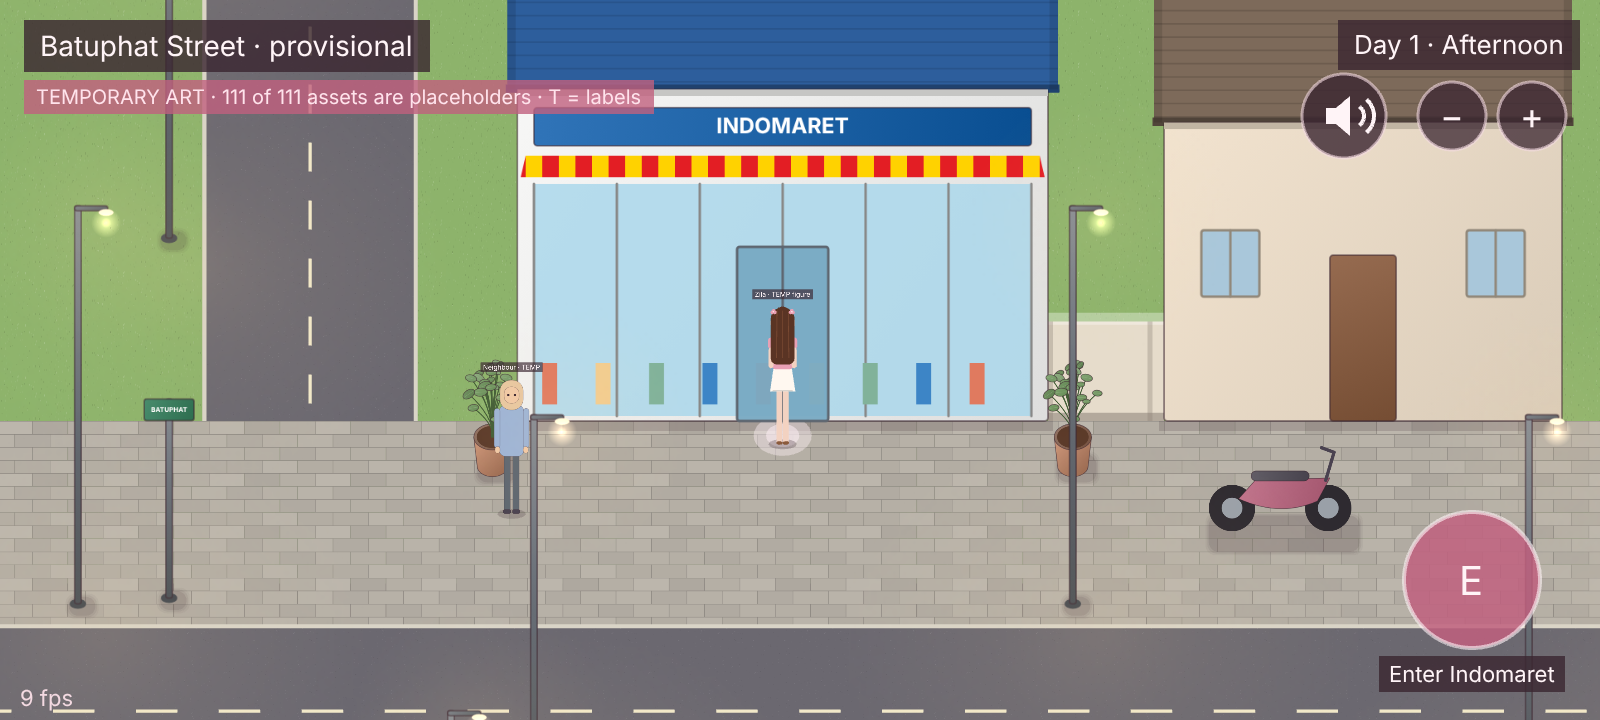
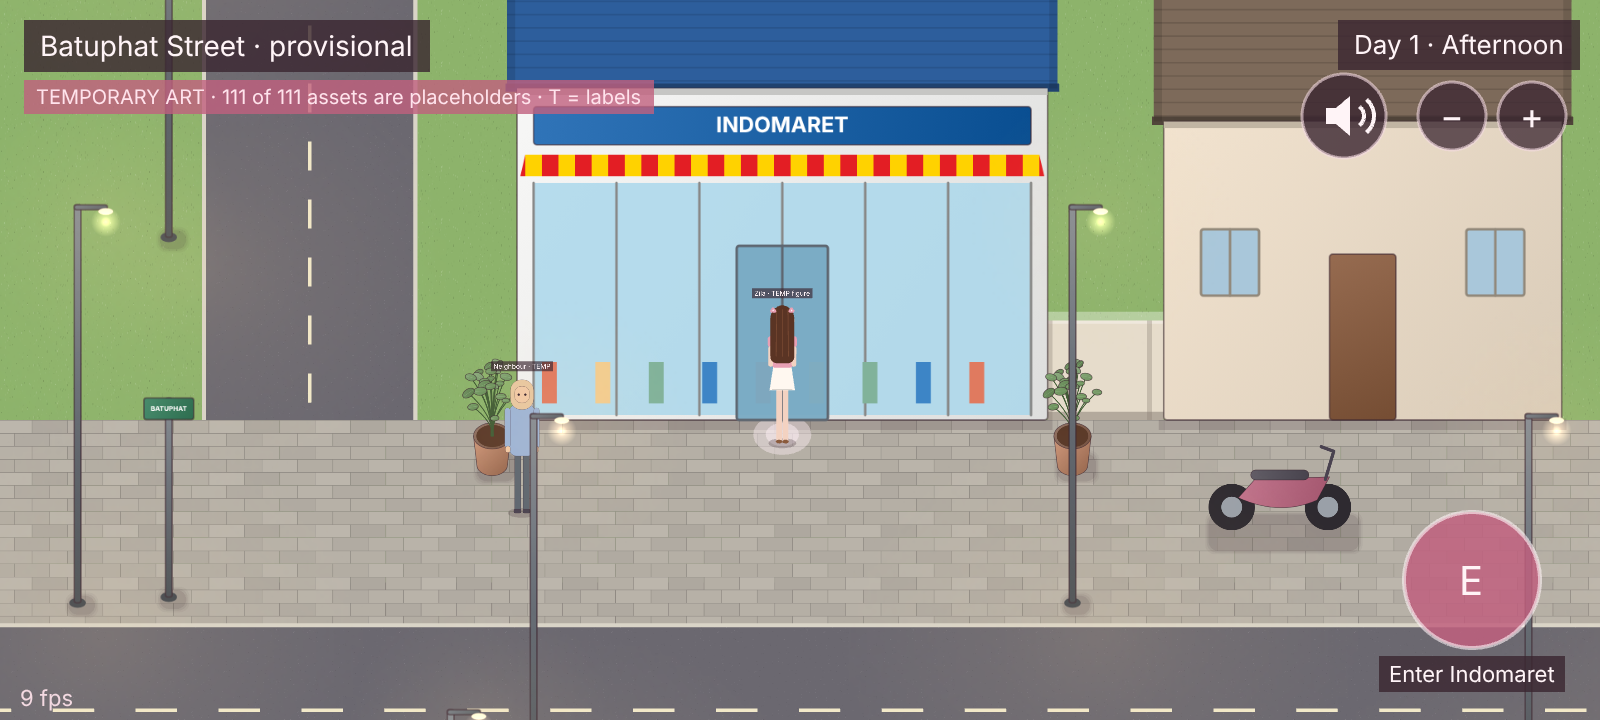
fix(path): smoothed legs never clip obstacles; motorbike off the south lane
- Path smoothing on the walk grid now checks samples next to obstacles exactly: a free 16 cm
  cell only guarantees its centre is clear, and a smoothed leg could clip a corner so the
  walk stalled (found on the P6 preview: Zila stuck beside the motorbike on the south lane).
- The south-lane motorbike stood on the lane and on the area's default spawn; moved onto the
  verge. Unit tests: every town spawn is standable; 26 sampled routes followed with real
  collision reach their end.

Claude-Session: https://claude.ai/code/session_01P67KtqJMN8ARmJbwhSuoYs

diff --git a/tests/unit/town.test.ts b/tests/unit/town.test.ts
@@ -48,7 +48,7 @@ describe('P6 Batuphat town: a broad 2D map, not a corridor', () => {
 
   it('every spawn, door and interaction is reachable on foot from the garden', () => {
     const start = spawn('front_yard.default');
-    for (const [k, s] of Object.entries(town.data.spawns)) expect(grid.findPath(start, s), k).not.toBeNull();
+    for (const [k, s] of Object.entries(town.data.spawns)) { expect(grid.standable(s), `${k} standable`).toBe(true); expect(grid.findPath(start, s), k).not.toBeNull(); }
     for (const a of town.anchors) {
       const p = grid.findPath(start, a);
       expect(p, a.key).not.toBeNull();
@@ -131,6 +131,26 @@ describe('P6 Batuphat town: a broad 2D map, not a corridor', () => {
   it('geometry helpers: void cells and rectangle subtraction', () => {
     expect(voidRects([{ x: 0, y: 0, w: 10, h: 10 }, { x: 0, y: 10, w: 30, h: 10 }], 0, 0, 30, 20)).toEqual([{ x: 10, y: 0, w: 20, h: 10 }]);
     expect(subtractRect({ x: 0, y: 0, w: 10, h: 10 }, { x: 3, y: 3, w: 4, h: 4 })).toHaveLength(4);
+  });
+
+  it('smoothed paths are really walkable: following the waypoints with real collision never stalls (26 sampled routes across town)', () => {
+    const spots = [spawn('front_yard.from_street'), door('minimarket_door'), door('mixue_door'), door('workplace_door'), spawn('batuphat_park.default'), spawn('batuphat_south.default'),
+      { x: 5830, y: 4430 }, { x: 3300, y: 4425 }, { x: 1675, y: 4250 }, { x: 7900, y: 3100 }, { x: 150, y: 3100 }, { x: 6400, y: 1540 }, { x: 3635, y: 2000 }, { x: 4730, y: 1560 }];
+    let n = 0;
+    for (let i = 0; i < spots.length; i++) for (let j = 0; j < spots.length; j++) {
+      if (i === j || (i * 7 + j * 3) % 5 !== 0) continue;                      // a spread-out sample of pairs
+      const path = grid.findPath(spots[i]!, spots[j]!); expect(path, `${i}→${j}`).not.toBeNull();
+      let p = { x: spots[i]!.x, y: spots[i]!.y };
+      for (const w of path!) for (let k = 0; k < 2000; k++) {
+        const dx = w.x - p.x, dy = w.y - p.y, d = Math.hypot(dx, dy);
+        if (d < 1) break;
+        const step = Math.min(10, d), q = moveWithCollision(p, { x: (dx / d) * step, y: (dy / d) * step }, R, town.solids);
+        expect(Math.hypot(q.x - p.x, q.y - p.y), `stalled ${i}→${j} at ${Math.round(p.x)},${Math.round(p.y)}`).toBeGreaterThan(0.2);
+        p = q;
+      }
+      const end = path!.at(-1)!; expect(Math.hypot(p.x - end.x, p.y - end.y)).toBeLessThan(2); n++;
+    }
+    expect(n).toBeGreaterThanOrEqual(25);
   });
 
   it('walk grid for a district this size is built quickly (rasterised solids)', () => {

diff --git a/src/world/pathfinding.ts b/src/world/pathfinding.ts
@@ -112,12 +112,19 @@ export class WalkGrid {
     return out;
   }
 
-  /** Line of sight on the grid: every sample (≤ half a cell apart) lies in a free cell. */
+  /**
+   * Line of sight for path smoothing: every sample (≤ half a cell apart) lies in a free cell. A free cell only
+   * guarantees its CENTRE is clear, so next to obstacles (any blocked neighbour) the sample is checked exactly —
+   * otherwise a smoothed leg can clip a corner by a few cm and the walk stalls against it.
+   */
   gridSight(a: Vec2, b: Vec2): boolean {
     const len = Math.hypot(b.x - a.x, b.y - a.y), steps = Math.max(1, Math.ceil(len / (this.cell / 2)));
     for (let i = 1; i < steps; i++) {
-      const t = i / steps, c = Math.floor((a.x + (b.x - a.x) * t) / this.cell), r = Math.floor((a.y + (b.y - a.y) * t) / this.cell);
+      const t = i / steps, x = a.x + (b.x - a.x) * t, y = a.y + (b.y - a.y) * t, c = Math.floor(x / this.cell), r = Math.floor(y / this.cell);
       if (!this.isFree(c, r)) return false;
+      let open = true;
+      for (let dr = -1; dr <= 1 && open; dr++) for (let dc = -1; dc <= 1; dc++) if (!this.isFree(c + dc, r + dr)) { open = false; break; }
+      if (!open && !this.standable({ x, y })) return false;
     }
     return true;
   }
